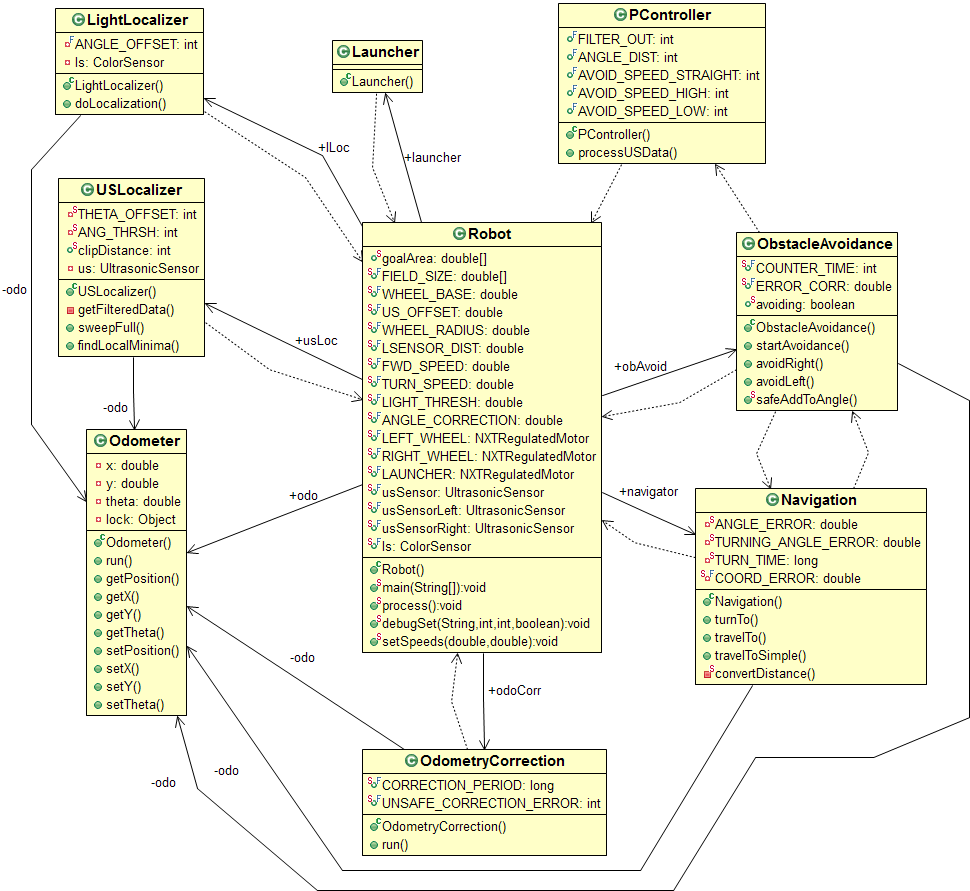
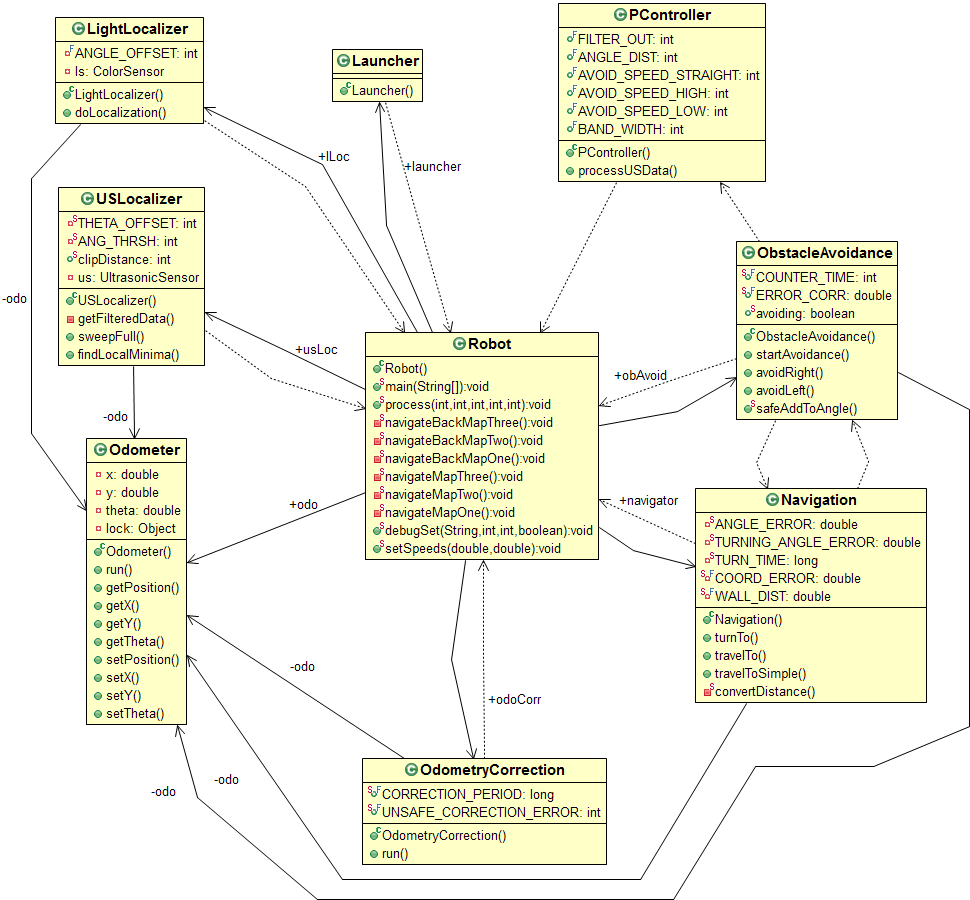
Small Changes

diff --git a/src/ObstacleAvoidance.java b/src/ObstacleAvoidance.java
@@ -5,7 +5,7 @@ import lejos.nxt.UltrasonicSensor;
 public class ObstacleAvoidance {
 
 	public static final int COUNTER_TIME = 50;
-	public static final double ERROR_CORR = 5;
+	public static final double ERROR_CORR = 2;
 	private static double[] currentPosition = new double[3];
 	public static boolean avoiding;
 
@@ -18,6 +18,7 @@ public class ObstacleAvoidance {
 	
 	public void startAvoidance(){
 		odo.getPosition(currentPosition, new boolean[] {true, true, true});
+		
 		int rightDistance;
 		int leftDistance;
 		
@@ -25,7 +26,7 @@ public class ObstacleAvoidance {
 		try{Thread.sleep(200);}catch (InterruptedException e){}
 		rightDistance = Robot.usSensorRight.getDistance();
 		if (rightDistance > 60){
-			avoidRight();
+			avoidRight(Robot.usSensorLeft);
 			return;
 		}
 		
@@ -33,20 +34,19 @@ public class ObstacleAvoidance {
 		try{Thread.sleep(200);}catch (InterruptedException e){}
 		leftDistance = Robot.usSensorLeft.getDistance();
 		if (leftDistance > 60){
-			avoidLeft();
+			avoidLeft(Robot.usSensorRight);
 			return;
 		}
 		
 		odo.getPosition(currentPosition, new boolean[]{true, true, true});
 		if (currentPosition[0] > currentPosition[1])
-			avoidLeft();
+			avoidLeft(Robot.usSensorRight);
 		else
-			avoidRight();
+			avoidRight(Robot.usSensorLeft);
 	}
 	
-	public boolean avoidRight()
+	public boolean avoidRight(UltrasonicSensor wallSensor)
 	{
-		UltrasonicSensor wallSensor = Robot.usSensorLeft;
 		Robot.navigator.turnTo(safeAddToAngle(odo.getTheta(), 90));
 		
 		//Initiate PController
@@ -61,7 +61,9 @@ public class ObstacleAvoidance {
 		int distance;
 		
 		//PController while loop
-		while ((Math.abs(b - b0) > ERROR_CORR) || counter < COUNTER_TIME){
+		while ((Math.abs(b - b0) > ERROR_CORR/*/Math.abs(Math.sin(Math.toRadians(currentPosition[2])))*/) || counter < COUNTER_TIME){
+			wallSensor.ping();
+			try{Thread.sleep(100);}catch (InterruptedException e){}
 			distance = wallSensor.getDistance();
 			pCont.processUSData(distance);
 			odo.getPosition(currentPosition, new boolean[] {true, true, true});
@@ -69,12 +71,13 @@ public class ObstacleAvoidance {
 			counter += 1;
 		}
 		
+		Robot.setSpeeds(0, 0);
+		
 		return true;
 	}
 	
-	public boolean avoidLeft()
+	public boolean avoidLeft(UltrasonicSensor wallSensor)
 	{
-		UltrasonicSensor wallSensor = Robot.usSensorRight;
 		Robot.navigator.turnTo(safeAddToAngle(odo.getTheta(), -90));
 		
 		//Initiate PController
@@ -89,13 +92,20 @@ public class ObstacleAvoidance {
 		int distance;
 		
 		//PController while loop
-		while ((Math.abs(b - b0) > ERROR_CORR) || counter < COUNTER_TIME){
+		while ((Math.abs(b - b0) > ERROR_CORR/*/Math.abs(Math.sin(Math.toRadians(currentPosition[2])))*/) || counter < COUNTER_TIME){
+			wallSensor.ping();
+			try{Thread.sleep(100);}catch (InterruptedException e){}
 			distance = wallSensor.getDistance();
+			Robot.debugSet("Right Dist: " + distance, 0, 5, true);
 			pCont.processUSData(distance);
 			odo.getPosition(currentPosition, new boolean[] {true, true, true});
 			b = currentPosition[1] - slope*currentPosition[0];
 			counter += 1;
 		}
+		
+		Robot.debugSet("HI", 0, 5, true);
+		
+		Robot.setSpeeds(0, 0);
 		
 		return true;
 	}

diff --git a/src/Navigation.java b/src/Navigation.java
@@ -34,6 +34,7 @@ public class Navigation extends Thread {
 	 * Turns the robot by a number of degrees corresponding to the angle
 	 */
 	public void turnTo(double angle) { //TODO needs stopping added
+		isRotating = true;
 		while(angle < 0)
 			angle += 360;
 		
@@ -63,6 +64,7 @@ public class Navigation extends Thread {
 			}
 		}
 		Robot.setSpeeds(0, 0);
+		isRotating = false;
 	}
 	
 	/**
@@ -114,16 +116,18 @@ public class Navigation extends Thread {
 		while(hypotenuse >= COORD_ERROR)
 		{	
 			
-			Robot.usSensor.ping();
-			try{ Thread.sleep(100);} catch (InterruptedException e){}
-			distance = Robot.usSensor.getDistance();
-			
-			if (distance <= WALL_DIST){
-				odo.getPosition(currentPosition, new boolean[]{true, true, true});
-				Robot.setSpeeds(0, 0);
-				Robot.obAvoid.startAvoidance();
-				return;
-				//Robot.debugSet("BACK TO NAVIGATION", 0, 5, true);
+			if (!(currentPosition[0] > 30 && currentPosition[1] > 270)){
+				Robot.usSensor.ping();
+				try{ Thread.sleep(100);} catch (InterruptedException e){}
+				distance = Robot.usSensor.getDistance();
+				
+				if (distance <= WALL_DIST){
+					odo.getPosition(currentPosition, new boolean[]{true, true, true});
+					Robot.setSpeeds(0, 0);
+					Robot.obAvoid.startAvoidance();
+					return;
+					//Robot.debugSet("BACK TO NAVIGATION", 0, 5, true);
+				}
 			}
 			
 			odo.getPosition(currentPosition, new boolean [] {true, true, true});
@@ -168,6 +172,17 @@ public class Navigation extends Thread {
 		Robot.setSpeeds(0,0);
 	}
 	
+	
+	public boolean positionValid(double x, double y){
+		boolean flag = true;
+		if (x > 30 && y > 270){
+			flag = false;
+		}
+		if (x < 30 && y < 30){
+			flag = false;
+		}
+		return flag;
+	}
 	
 	//No correction, just turns and moves forward the distance
 	/**

diff --git a/src/OdometryCorrection.java b/src/OdometryCorrection.java
@@ -33,7 +33,7 @@ public class OdometryCorrection extends Thread {
 			//Get current light reading
 			lightColor = light.getNormalizedLightValue();
 			
-			if (lightColor <= Robot.LIGHT_THRESH){
+			if (lightColor <= Robot.LIGHT_THRESH && Robot.navigator.isRotating == false){
 				//Beep to indicate a grid line has been crossed
 				Sound.beep();
 				
